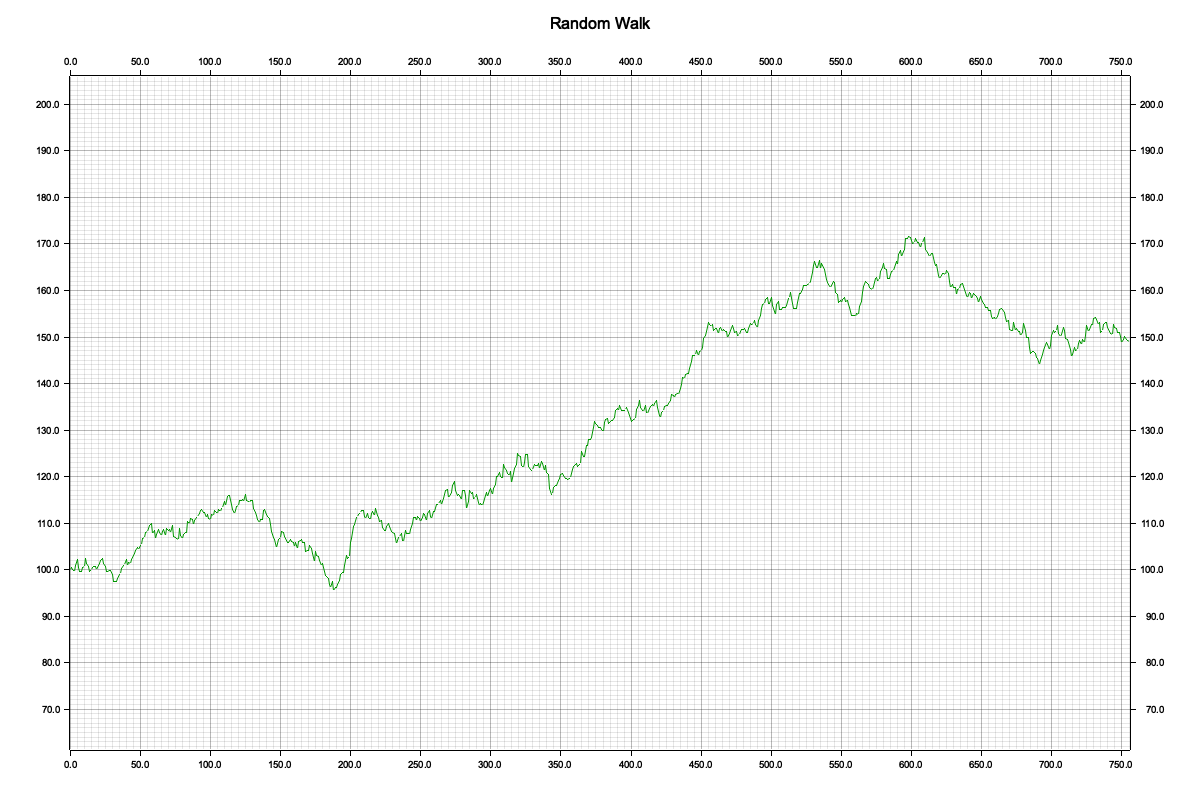
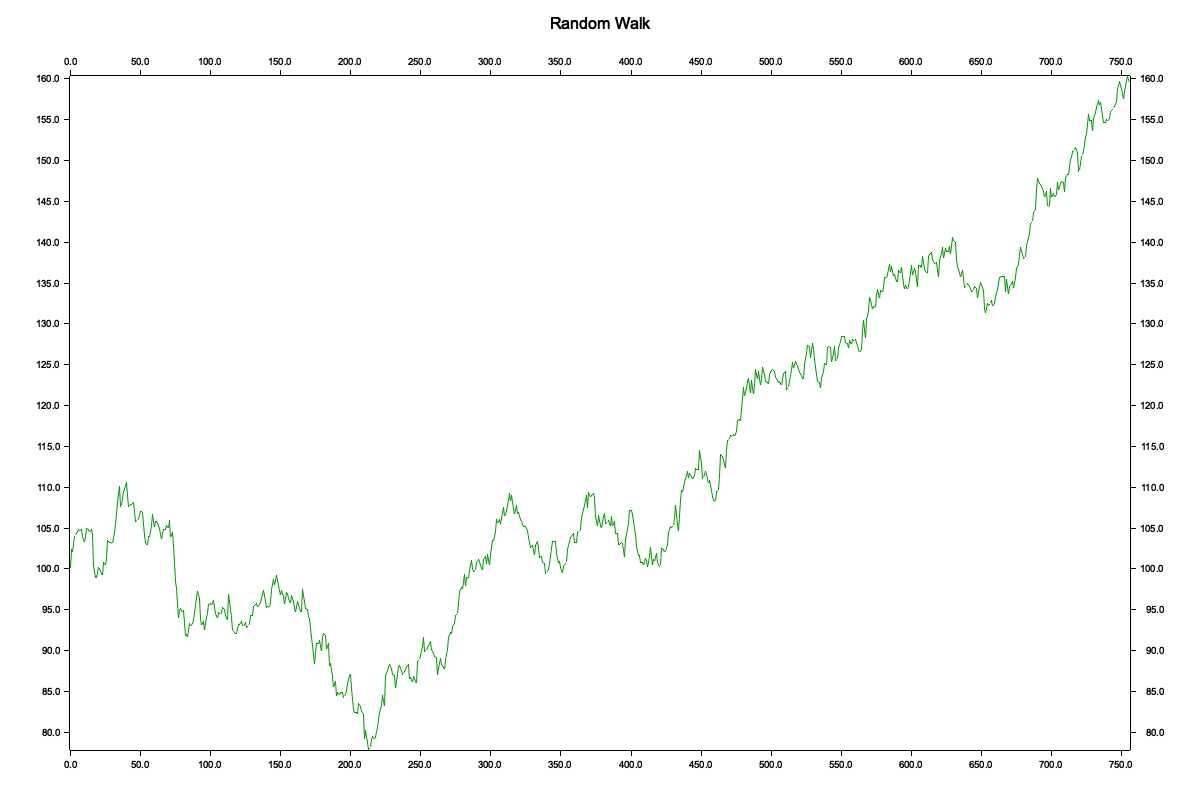
"Add VoV random walk simulation and enhance axis range handling
Introduce a new example for a random walk with volatility-of-volatility (VoV) dynamics. Refactor axis range handling to include configurable margins, and improve error messages for visualization utilities. Additionally, adjust comments and documentation to align with the new changes."

Changed region(s): [[0.0308, 0.0938, 0.9867, 0.9375]]

diff --git a/src/simulation/walk.rs b/src/simulation/walk.rs
@@ -19,9 +19,39 @@ use statrs::distribution::Normal;
 use std::error::Error;
 use tracing::{info, trace};
 
+/// The `Walkable` trait defines a generic structure for creating and manipulating
+/// entities capable of simulating or managing a random walk sequence of values. 
+/// Implementations of this trait must handle a vector of `Positive` values, which 
+/// serve as the primary storage for the y-axis values used in simulations or computations.
 pub trait Walkable {
+
+    /// Provides mutable access to the vector of y-axis values (`Positive`)
+    /// associated with the structure implementing this trait.
+    ///
+    /// # Returns
+    /// A mutable reference to the `Vec<Positive>` containing y-axis values.
     fn get_y_values(&mut self) -> &mut Vec<Positive>;
 
+    /// Generates a random walk sequence of values using a normal distribution.
+    ///
+    /// # Arguments
+    /// * `n_steps` - The total number of steps to generate in the random walk.
+    /// * `initial_price` - The starting value of the sequence, represented as a `Positive`.
+    /// * `mean` - The mean value for the normal distribution of price changes.
+    /// * `std_dev` - The initial standard deviation (volatility) for the normal distribution.
+    /// * `std_dev_change` - The daily change in volatility (volatility of volatility or VoV).
+    ///
+    /// # Errors
+    /// Returns an error if:
+    /// * `n_steps` is zero, as a random walk requires at least one step.
+    ///
+    /// # Behavior
+    /// The function:
+    /// 1. Ensures `n_steps` is greater than zero.
+    /// 2. Initializes the random number generator and prepares the vector of output values.
+    /// 3. Adjusts volatility dynamically based on `std_dev_change`.
+    /// 4. Calculates steps using a normal distribution with the given `mean` and `std_dev`.
+    /// 5. Converts all computed values into `Positive` and updates the underlying vector.
     fn generate_random_walk(
         &mut self,
         n_steps: usize,
@@ -67,17 +97,28 @@ pub trait Walkable {
         Ok(())
     }
 
-    /// Generates a random walk with volatility adjusted for a specific timeframe
+    /// Generates a random walk sequence of values over a specified timeframe,
+    /// adjusting for volatility changes for the given periods.
     ///
     /// # Arguments
-    /// * `n_steps` - Number of steps in the random walk
-    /// * `initial_price` - Starting price
-    /// * `mean` - Mean of the normal distribution for price changes
-    /// * `std_dev` - Daily volatility (standard deviation)
-    /// * `std_dev_change` - Daily volatility of volatility (VoV)
-    /// * `time_frame` - Target timeframe for the simulation
-    /// * `volatility_limits` - Optional tuple of (min_volatility, max_volatility)
+    /// * `n_steps` - The total number of steps in the random walk.
+    /// * `initial_price` - The initial value of the sequence as a `Positive`.
+    /// * `mean` - The mean of the price change distribution.
+    /// * `std_dev` - Daily volatility (standard deviation) represented as `Positive`.
+    /// * `std_dev_change` - Daily change in volatility (VoV) represented as `Positive`.
+    /// * `time_frame` - The timeframe over which the simulation takes place.
+    /// * `volatility_limits` - An optional tuple representing the minimum and maximum volatility limits.
     ///
+    /// # Errors
+    /// Returns an error if:
+    /// * `n_steps` is zero, as a random walk requires at least one step.
+    ///
+    /// # Behavior
+    /// 1. Converts daily volatility (`std_dev`) and its change (`std_dev_change`) to the target timeframe.
+    /// 2. Dynamically adjusts volatility based on the provided volatility change (`std_dev_change`).
+    /// 3. Constrains volatility within the specified limits, if provided.
+    /// 4. Computes step values using a normal distribution adjusted for the timeframe's volatility.
+    /// 5. Updates the internal storage of `Positive` values with the generated sequence.
     #[allow(clippy::too_many_arguments)]
     fn generate_random_walk_timeframe(
         &mut self,
@@ -148,18 +189,38 @@ pub trait Walkable {
     }
 }
 
+/// Represents a specific implementation of the `Walkable` trait called `RandomWalkGraph`.
+/// It is used to simulate and store a random walk's data, along with other metadata such
+/// as titles, timeframes, and optional financial parameters (e.g., risk-free rate, dividend yield).
 pub struct RandomWalkGraph {
+    /// Values representing the y-axis data of the random walk.
     values: Vec<Positive>,
+    /// Text for the graph's title.
     title_text: String,
+    /// Tracks the current index for traversing the graph.
     current_index: usize,
+    /// Optional risk-free rate used in calculations.
     risk_free_rate: Option<Decimal>,
+    /// Optional dividend yield percentage.
     dividend_yield: Option<Positive>,
+    /// Specifies the timeframe (e.g., daily, weekly) for the graph calculations.
     time_frame: TimeFrame,
+    /// Determines the window size used in volatility calculations.
     volatility_window: usize,
+    /// Optional initial volatility of the random walk.
     initial_volatility: Option<Positive>,
 }
 
 impl RandomWalkGraph {
+    /// Creates a new `RandomWalkGraph` instance.
+    ///
+    /// # Arguments
+    /// * `title` - A string representing the graph's title.
+    /// * `risk_free_rate` - An optional risk-free rate as a `Decimal`.
+    /// * `dividend_yield` - An optional dividend yield value as a `Positive`.
+    /// * `time_frame` - The timeframe for the graph's data (e.g., daily, weekly).
+    /// * `volatility_window` - The window size for calculating historical volatility.
+    /// * `initial_volatility` - Optional initial volatility for the graph's random walk.
     pub fn new(
         title: String,
         risk_free_rate: Option<Decimal>,
@@ -180,6 +241,13 @@ impl RandomWalkGraph {
         }
     }
 
+    /// Calculates the current volatility of the random walk based on historical
+    /// returns. This considers a moving window of data or defaults to the
+    /// initial volatility if insufficient data exists.
+    ///
+    /// # Returns
+    /// * The computed volatility as an optional `Positive`.
+    /// * Returns `None` if the volatility cannot be computed or is invalid.
     fn calculate_current_volatility(&self) -> Option<Positive> {
         if self.current_index < 2 {
             return self.initial_volatility;
@@ -216,32 +284,59 @@ impl RandomWalkGraph {
         }
     }
 
+    /// Resets the iterator for traversing the graph's values to its starting position.
     pub fn reset_iterator(&mut self) {
         self.current_index = 0;
     }
 
+    /// Calculates the remaining time, in steps, for the graph's iteration.
+    ///
+    /// # Returns
+    /// The time remaining as a `Positive`.
     fn get_remaining_time(&self) -> Positive {
         pos!((self.values.len() - self.current_index) as f64)
     }
 }
 
+/// Implements the `Walkable` trait for the `RandomWalkGraph` structure. This provides
+/// the graph with an interface for managing its y-values and performing random walk simulations.
 impl Walkable for RandomWalkGraph {
     fn get_y_values(&mut self) -> &mut Vec<Positive> {
         &mut self.values
     }
 }
 
+/// Implements a `Profit` trait for `RandomWalkGraph`, providing functionality
+/// for calculating potential profit at a given price level.
 impl Profit for RandomWalkGraph {
+    
+    /// Calculates the profit at a specified price, returning it as a `Decimal`.
+    ///
+    /// # Arguments
+    /// * `price` - The price at which the profit is being calculated, represented as a `Positive`.
+    ///
+    /// # Returns
+    /// A `Decimal` value representing the calculated profit.
     fn calculate_profit_at(&self, price: Positive) -> Result<Decimal, Box<dyn Error>> {
         Ok(price.to_dec())
     }
 }
 
+/// Implements a `Graph` trait for `RandomWalkGraph`, allowing it to manage
+/// the graphical data, such as titles and y-axis values.
 impl Graph for RandomWalkGraph {
+    /// Retrieves the title text for the graph.
     fn title(&self) -> String {
         self.title_text.clone()
     }
 
+    /// Processes y-axis values from the graph and converts them into a vector of `f64`.
+    ///
+    /// # Arguments
+    /// * `_data` - A slice of `Positive` values, optionally usable during processing.
+    ///
+    /// # Returns
+    /// A vector of `f64` values as the processed y-axis data.
     fn get_values(&self, _data: &[Positive]) -> Vec<f64> {
         info!("Number of values: {}", self.values.len());
         info!("First value: {:?}", self.values.first().unwrap());

diff --git a/src/visualization/utils.rs b/src/visualization/utils.rs
@@ -118,20 +118,27 @@ pub trait Graph: Profit {
         backend: GraphBackend,
         title_size: u32,
     ) -> Result<(), Box<dyn Error>> {
-        if x_axis_data.is_empty() {
-            return Err("Cannot create graph with empty data".into());
-        }
 
         // Generate profit values for each price in the data vector
         let y_axis_data: Vec<f64> = self.get_values(x_axis_data);
         if y_axis_data.is_empty() {
-            return Err("No valid profit values to plot".into());
+            return Err("No valid values to plot".into());
         }
 
+        let default_x_data: Vec<Positive>;
+        let x_axis_data: &[Positive] = if x_axis_data.is_empty() {
+            default_x_data = (0..y_axis_data.len())
+                .map(|i| Positive::from(i as f64))
+                .collect();
+            &default_x_data 
+        } else {
+            x_axis_data
+        };
+        
         let (max_x_value, min_x_value, max_y_value, min_y_value) =
-            calculate_axis_range(x_axis_data, &y_axis_data);
+            calculate_axis_range(x_axis_data, &y_axis_data, None);
 
-        // Setup the drawing area
+        // Set up the drawing area
         let root = match backend {
             #[cfg(not(target_arch = "wasm32"))]
             GraphBackend::Bitmap { file_path, size } => {
@@ -208,6 +215,7 @@ pub trait Graph: Profit {
 pub(crate) fn calculate_axis_range(
     x_axis_data: &[Positive],
     y_axis_data: &[f64],
+    margin: Option<f64>,
 ) -> (Positive, Positive, f64, f64) {
     let (min_x_value, max_x_value) = if x_axis_data.is_empty() {
         (Positive::ZERO, Positive::INFINITY)
@@ -230,9 +238,11 @@ pub(crate) fn calculate_axis_range(
     if min_y_temp.is_infinite() || max_y_temp.is_infinite() {
         return (max_x_value, min_x_value, min_y_temp, max_y_temp);
     }
+    
+    let margin_value = margin.unwrap_or_else(|| 1.0);
 
-    let adjusted_max_profit = (max_y_temp * 1.2 - max_y_temp).abs();
-    let adjusted_min_profit = (min_y_temp * 1.2 - min_y_temp).abs();
+    let adjusted_max_profit = (max_y_temp * margin_value - max_y_temp).abs();
+    let adjusted_min_profit = (min_y_temp * margin_value - min_y_temp).abs();
     let margin_value = adjusted_max_profit.max(adjusted_min_profit);
     let max_y_value = max_y_temp + margin_value;
     let min_y_value = min_y_temp - margin_value;
@@ -418,7 +428,7 @@ mod tests_calculate_axis_range {
         let x_data = vec![pos!(1.0), pos!(2.0), pos!(3.0), pos!(4.0), pos!(5.0)];
         let y_data = vec![-10.0, -5.0, 0.0, 5.0, 10.0];
 
-        let (max_x, min_x, max_y, min_y) = calculate_axis_range(&x_data, &y_data);
+        let (max_x, min_x, max_y, min_y) = calculate_axis_range(&x_data, &y_data, Some(1.2));
 
         assert_eq!(max_x, 5.0);
         assert_eq!(min_x, 1.0);
@@ -432,7 +442,7 @@ mod tests_calculate_axis_range {
         let x_data = vec![pos!(1.0)];
         let y_data = vec![0.0];
 
-        let (max_x, min_x, max_y, min_y) = calculate_axis_range(&x_data, &y_data);
+        let (max_x, min_x, max_y, min_y) = calculate_axis_range(&x_data, &y_data,Some(1.2));
 
         assert_eq!(max_x, pos!(1.0));
         assert_eq!(min_x, pos!(1.0));
@@ -446,7 +456,7 @@ mod tests_calculate_axis_range {
         let x_data = vec![Positive::ZERO, Positive::ZERO, Positive::ZERO];
         let y_data = vec![0.0, 0.0, 0.0];
 
-        let (max_x, min_x, max_y, min_y) = calculate_axis_range(&x_data, &y_data);
+        let (max_x, min_x, max_y, min_y) = calculate_axis_range(&x_data, &y_data,Some(1.2));
 
         assert_eq!(max_x, Positive::ZERO);
         assert_eq!(min_x, Positive::ZERO);
@@ -460,7 +470,7 @@ mod tests_calculate_axis_range {
         let x_data = vec![pos!(1e6), pos!(2e6), pos!(3e6)];
         let y_data = vec![1e9, 2e9, 3e9];
 
-        let (max_x, min_x, max_y, min_y) = calculate_axis_range(&x_data, &y_data);
+        let (max_x, min_x, max_y, min_y) = calculate_axis_range(&x_data, &y_data,Some(1.2));
 
         assert_eq!(max_x, 3e6);
         assert_eq!(min_x, 1e6);
@@ -598,7 +608,7 @@ mod tests {
     fn test_calculate_axis_range_empty() {
         let x_data: Vec<Positive> = vec![];
         let y_data: Vec<f64> = vec![];
-        let (max_x, min_x, max_y, min_y) = calculate_axis_range(&x_data, &y_data);
+        let (max_x, min_x, max_y, min_y) = calculate_axis_range(&x_data, &y_data,Some(1.2));
         assert_eq!(min_x, Positive::ZERO);
         assert_eq!(max_x, Positive::INFINITY);
         assert_eq!(min_y, f64::NEG_INFINITY);
@@ -672,7 +682,7 @@ mod tests_extended {
         );
 
         assert!(result.is_err());
-        assert!(result.unwrap_err().to_string().contains("empty data"));
+        assert!(result.unwrap_err().to_string().contains("No valid values to plot"));
         Ok(())
     }
 

diff --git a/examples/examples_simulation/src/bin/random_walk_vov.rs b/examples/examples_simulation/src/bin/random_walk_vov.rs
@@ -3,44 +3,52 @@
    Email: jb@taunais.com
    Date: 22/10/24
 ******************************************************************************/
+use rust_decimal::Decimal;
+use tracing::info;
 use optionstratlib::simulation::walk::{RandomWalkGraph, Walkable};
 use optionstratlib::utils::setup_logger;
 use optionstratlib::utils::time::TimeFrame;
 use optionstratlib::visualization::utils::{Graph, GraphBackend};
 use optionstratlib::{pos, spos};
-use rust_decimal_macros::dec;
-use tracing::info;
 
 fn main() -> Result<(), Box<dyn std::error::Error>> {
     setup_logger();
-    let years = 3.0;
-    let n_steps = 252 * years as usize;
-    let initial_price = pos!(100.0);
-    let mean = 0.02;
-    let std_dev = pos!(1.1);
+    let days = 1.0;
+    let n_steps = 24 * 60 * days as usize;
+    let initial_price = pos!(5781.88);
+    let mean = 0.0;
+    let std_dev = pos!(11.3);
     let std_dev_change = pos!(0.1);
-    let risk_free_rate = Some(dec!(0.05));
+    let risk_free_rate = Some(Decimal::ZERO);
     let dividend_yield = spos!(0.02);
     let volatility_window = 20;
     let initial_volatility = Some(std_dev);
     let mut random_walk = RandomWalkGraph::new(
-        "Random Walk".to_string(),
+        "Random Walk VoV".to_string(),
         risk_free_rate,
         dividend_yield,
         TimeFrame::Day,
         volatility_window,
         initial_volatility,
     );
-    random_walk.generate_random_walk(n_steps, initial_price, mean, std_dev, std_dev_change);
+    random_walk.generate_random_walk_timeframe(
+        n_steps,
+        initial_price,
+        mean,
+        std_dev,
+        std_dev_change,
+        TimeFrame::Minute,
+        None,
+    )?;
     let _ = random_walk.graph(
         &[],
         GraphBackend::Bitmap {
-            file_path: "Draws/Simulation/random_walk.png",
+            file_path: "Draws/Simulation/random_walk_vov.png",
             size: (1200, 800),
         },
         20,
     );
-
+    
     for (i, price_params) in random_walk.enumerate() {
         info!("Step {}: Params: {}", i, price_params,);
     }
